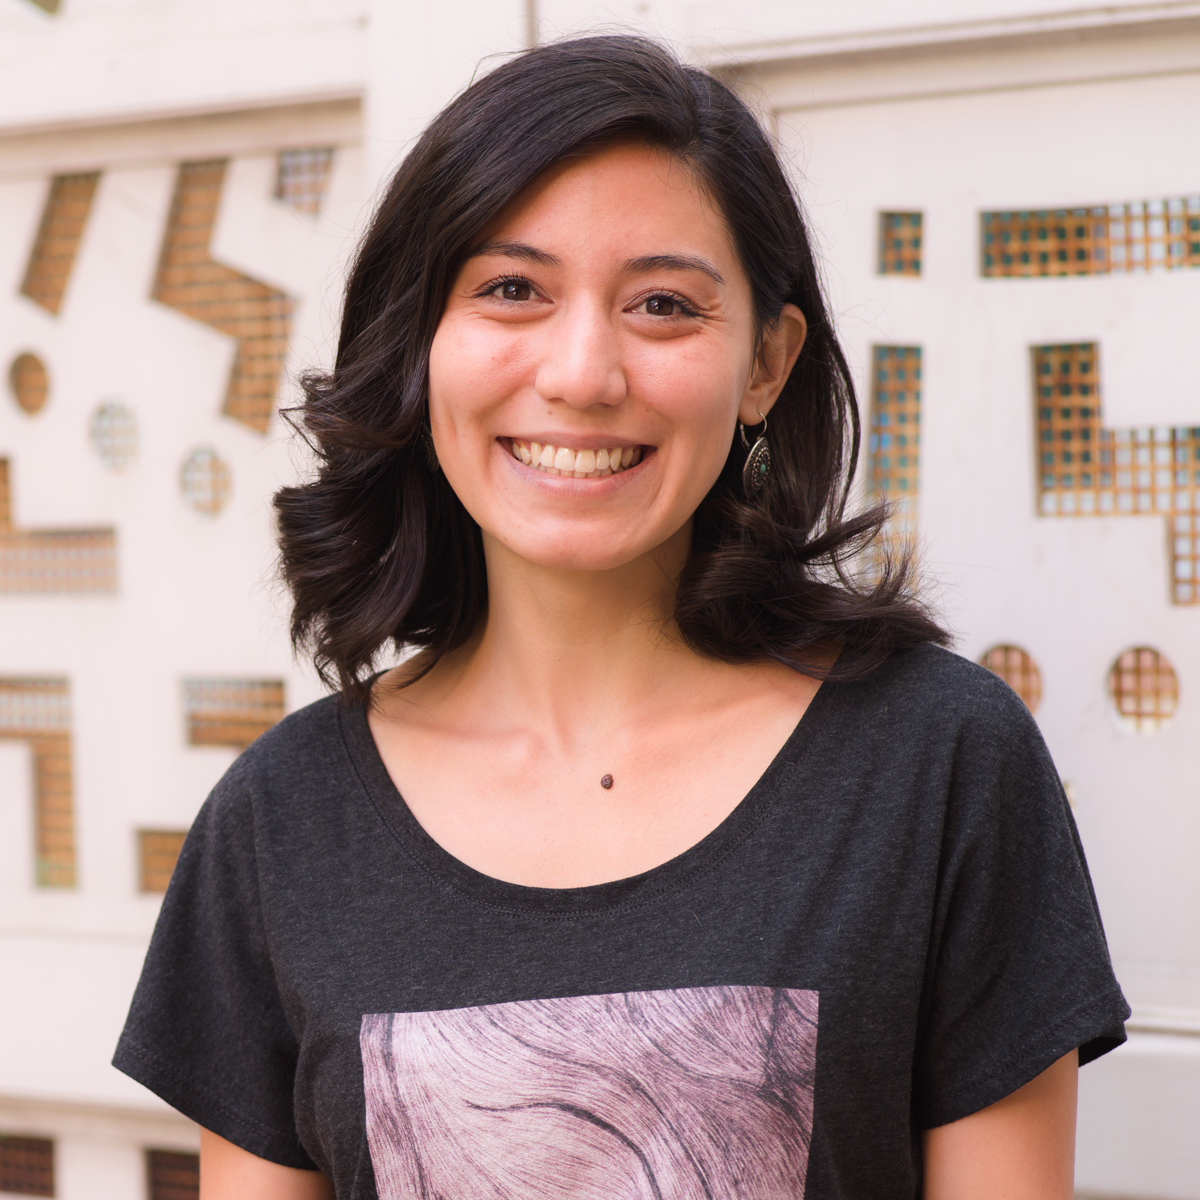
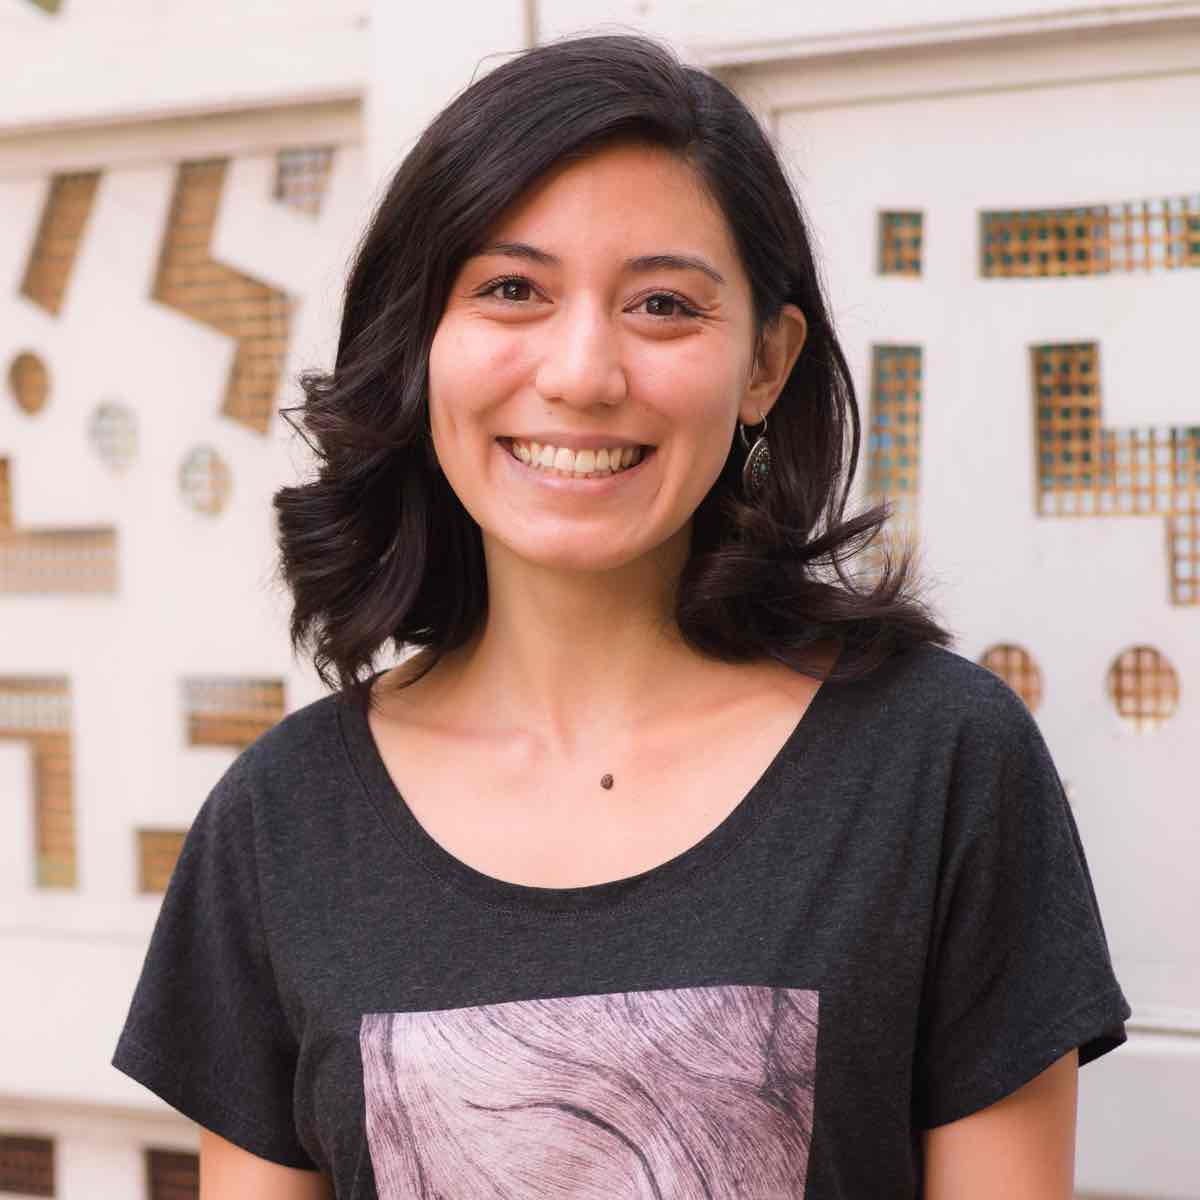
updated Devon's picture, added Davontae, compressed Juliana's picture

Changed region(s): [[0.7092, 0.4317, 0.74, 0.4625], [0.6783, 0.4625, 0.7092, 0.4933], [0.6167, 0.37, 0.6475, 0.4008]]

diff --git a/about-us/index.html b/about-us/index.html
@@ -41,7 +41,7 @@ title: "About Us"
                     <br>
                 </div>
                 <div class="col-md-3">
-                    <img class="director-photo" src="../images/team/devon_schechinger.jpg">
+                    <img class="director-photo" src="../images/team/davontae_foxx-drew.jpg">
                     <h3 class="director-name">Davontae Foxx-Drew</h3>
                     <div class="director-caption">Program Manager</div>
                     <br>
